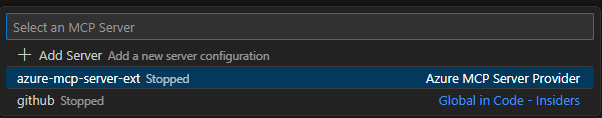
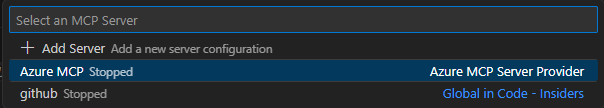
Improve Azure MCP display name from 'azure-mcp-server-ext' to 'Azure MCP' (#876)
* Initial plan

* Improve Azure MCP display name from 'azure-mcp-server-ext' to 'Azure MCP'

* Update CHANGELOG.md for Azure MCP display name improvement

* Add PR link #876 to CHANGELOG.md entry for Azure MCP display name improvement

* Update CHANGELOG.md

* update walkthrough images

---------

diff --git a/eng/vscode/src/extension.ts b/eng/vscode/src/extension.ts
@@ -67,7 +67,7 @@ export function activate(context: vscode.ExtensionContext) {
 
                 return [
                     new vscode.McpStdioServerDefinition(
-                        'azure-mcp-server-ext',
+                        'Azure MCP',
                         binPath,
                         args,
                         env

diff --git a/CHANGELOG.md b/CHANGELOG.md
@@ -14,6 +14,7 @@ The Azure MCP Server updates automatically by default whenever a new release com
 
 ### Other Changes
 
+- Improved Azure MCP display name in VS Code from 'azure-mcp-server-ext' to 'Azure MCP' for better user experience in the Configure Tools interface. [[#871](https://github.com/Azure/azure-mcp/issues/871), [#876](https://github.com/Azure/azure-mcp/pull/876)]
 - Updated the descriptions of Azure AI Search `CommandGroup`s to improve their usage by Agents. [[#874](https://github.com/Azure/azure-mcp/pull/874)]
 - Updated the root Storage `CommandGroup` description to improve their usage by Agents. [#879](https://github.com/Azure/azure-mcp/pull/879)
 

diff --git a/eng/vscode/CHANGELOG.md b/eng/vscode/CHANGELOG.md
@@ -1,6 +1,15 @@
 
 # Release History
 
+## 0.5.4 - Unreleased
+
+### Added
+
+### Changed
+- Improved Azure MCP display name in VS Code from 'azure-mcp-server-ext' to 'Azure MCP' for better user experience in the Configure Tools interface. [[#871](https://github.com/Azure/azure-mcp/issues/871), [#876](https://github.com/Azure/azure-mcp/pull/876)]
+
+### Fixed
+
 ## 0.5.3 - 2025-08-05
 
 ### Added
